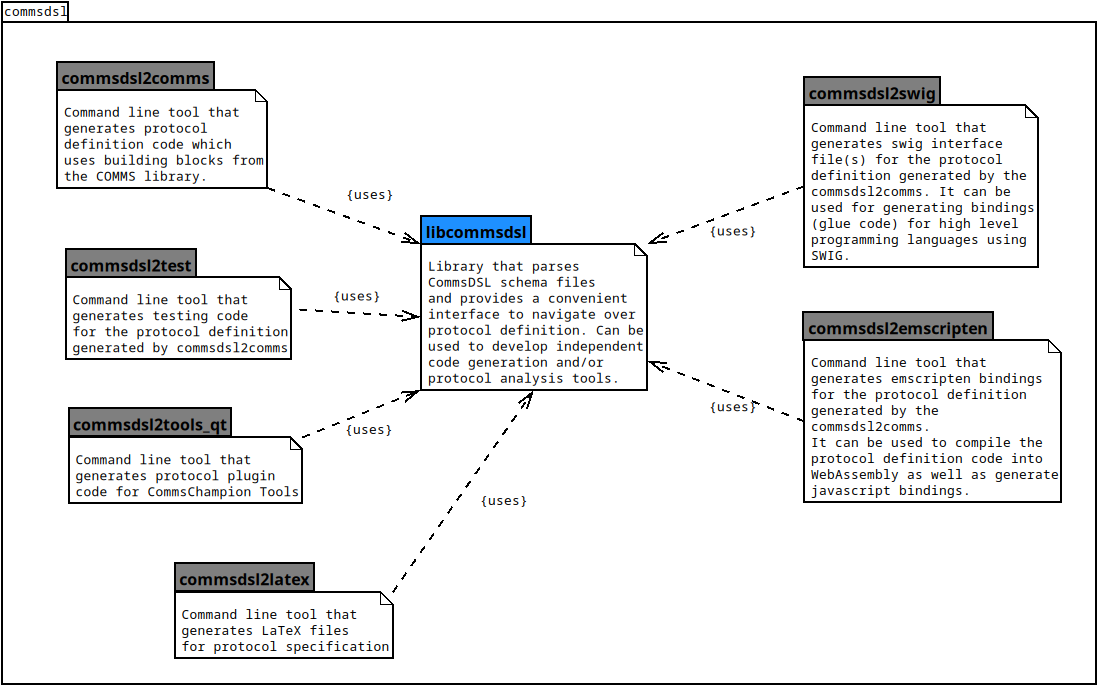
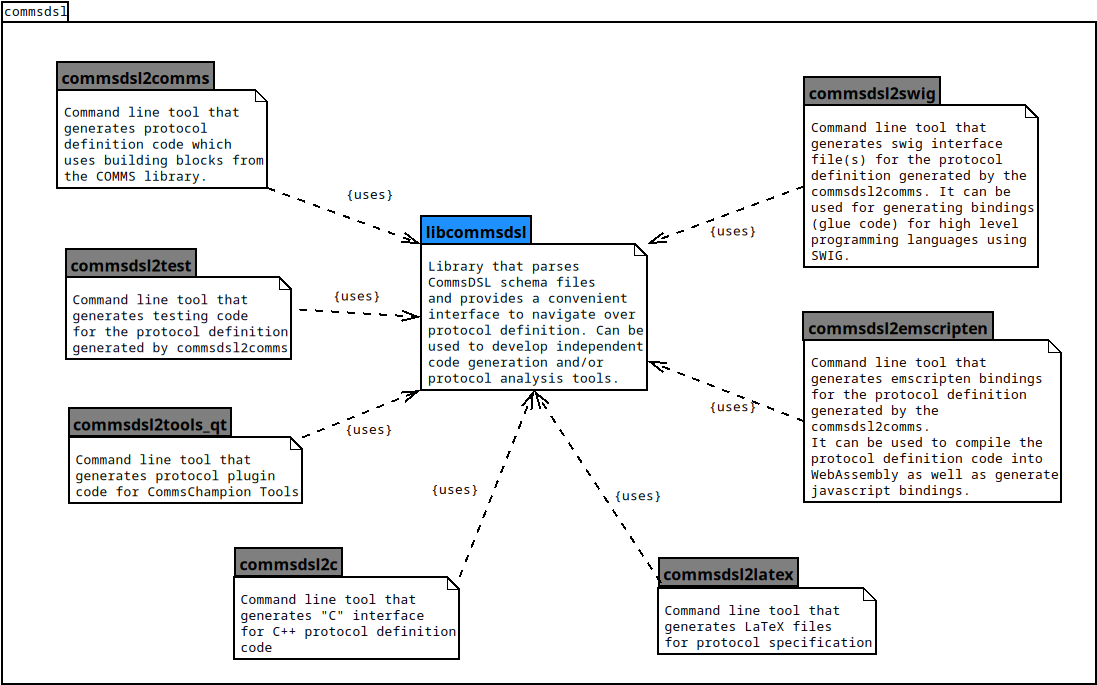
Announcing commsdsl2c code generator.

diff --git a/_includes/home.md b/_includes/home.md
@@ -135,6 +135,13 @@ following sub-components:
   **commsdsl2comms**. The [emscripten](https://emscripten.org/) toolchain compiles
   the protocol definition C++ code into WebAssembly and generates JavaScript bindings.
 
+- **commsdsl2c** application generates "C" interface
+  for the C++ protocol definition code generated by the **commsdsl2comms**.
+  It allows easier integration with other "C" code as well as other programming languages
+  not covered by [SWIG](https://www.swig.org) or [emscripten](https://emscripten.org/).
+
+- **commsdsl2latex** application generates LaTeX files for protocol specification.
+
 - **libcommsdsl** library provides a convenient interface to parse and process
   [CommsDSL](https://github.com/commschamp/CommsDSL-Specification) schema files as
   well as facilitate the development of the new code generation applications.

diff --git a/_includes/versions.md b/_includes/versions.md
@@ -2,6 +2,7 @@ Versions Compatibilty Table
 
 | commsdsl2comms | COMMS Library | CommsDSL Specification |
 |---------------------------------------------------------|
+| (>=) v7.3 | (>=) v5.4.5 | (<=) v7.1|
 | (>=) v7.2 | (>=) v5.4.4 | (<=) v7.1|
 | (>=) v7.1 | (>=) v5.4.2 | (<=) v7.0|
 | (>=) v7.0 | (>=) v5.3 | (<=) v7.0|

diff --git a/_posts/2025-12-08-commsdl2c.md b/_posts/2025-12-08-commsdl2c.md
@@ -1,0 +1,9 @@
+---
+date: 2025-12-08 00:00:01
+title: Supporting "C" interface generation.
+categories:
+  - news
+---
+
+Introducing new **commsdsl2c** code generator in the [v7.3](https://github.com/commschamp/commsdsl/releases/tag/v7.3) release of the
+[commsdsl](https://github.com/commschamp/commsdsl) project.
